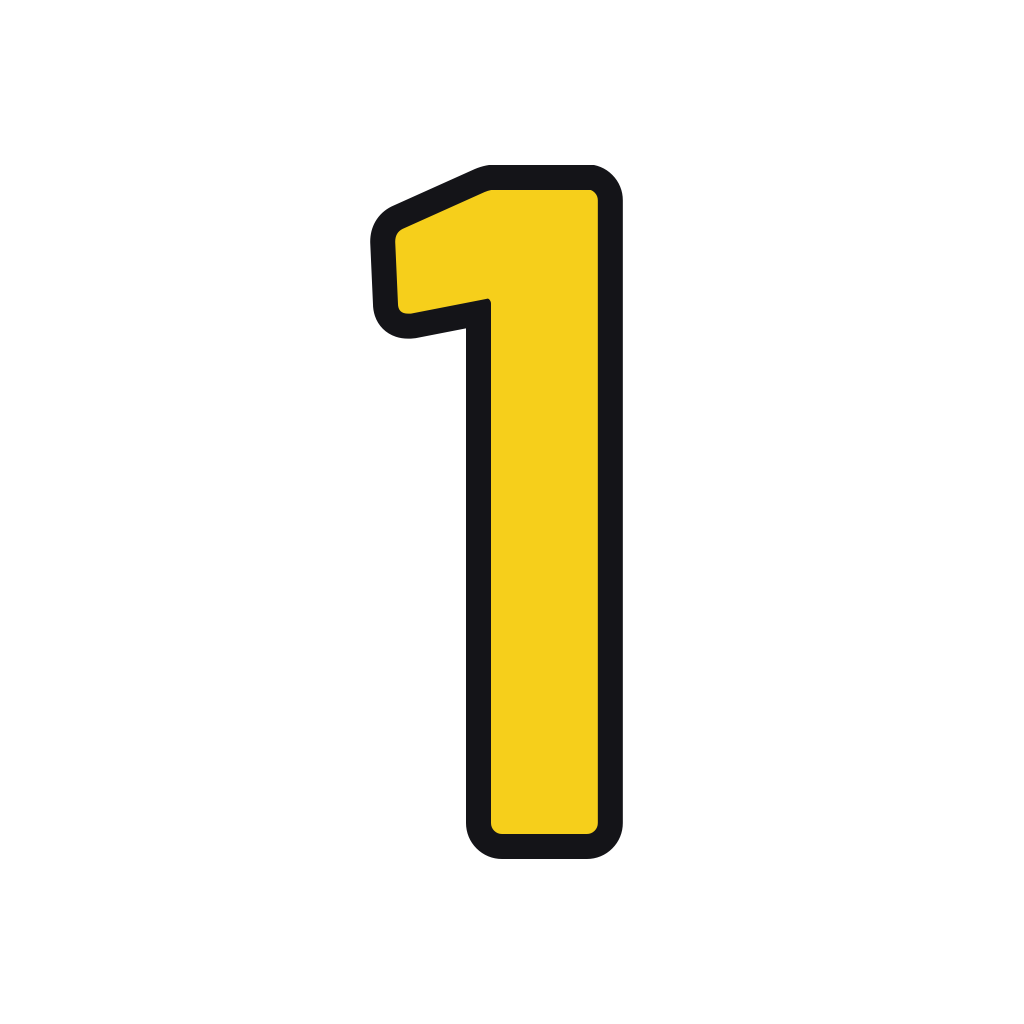
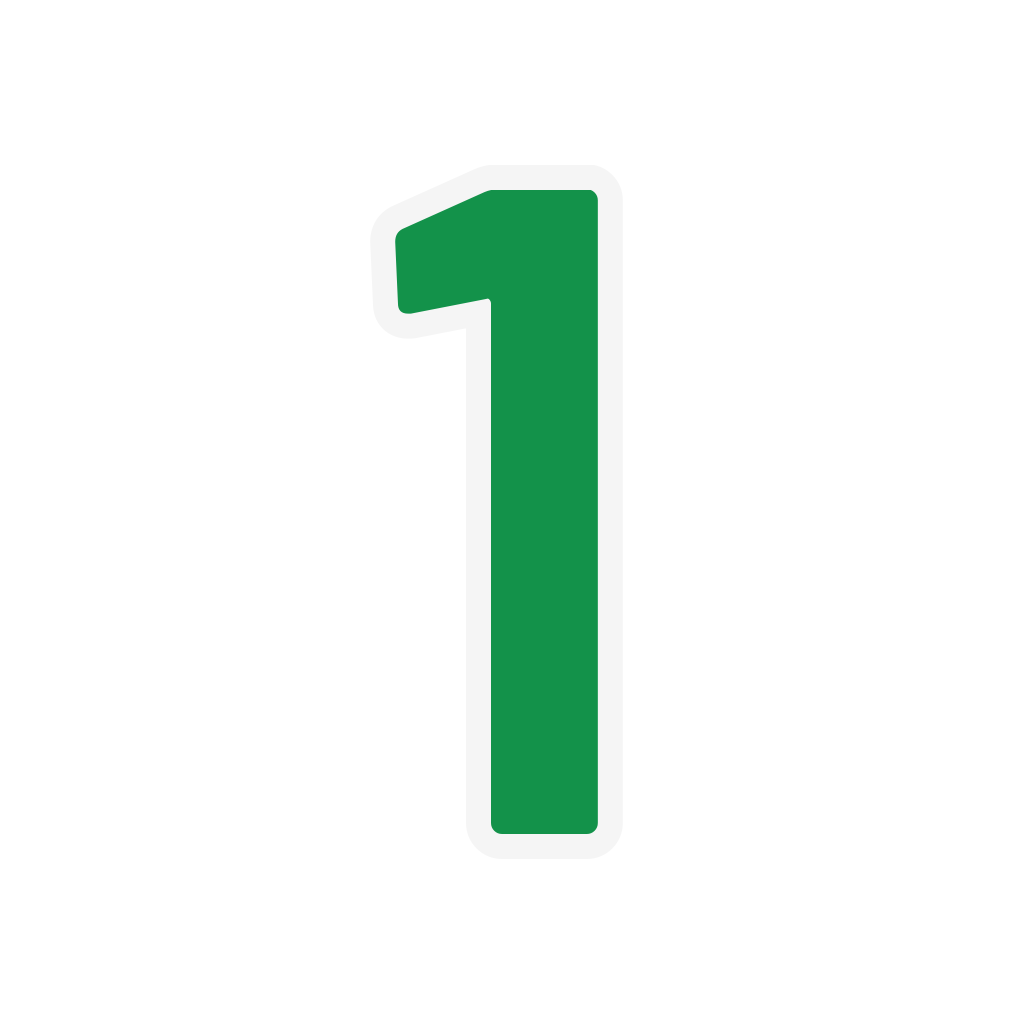
Times de 6 sem líbero: quem era líbero vira atleta de quadra
Decisão do Victor: 6 atletas de quadra por time (1 levantador, 2 ponteiros,
2 centrais, 1 oposto). O ex-líbero de cada time ficou com a função que
faltava; no Brasil, Takahashi virou ponteiro e Azevedo central. Sai o
uniforme de líbero (cores_libero) dos dados e das ferramentas, e o teste
dos dados passa a conferir as funções.

Claude-Session: https://claude.ai/code/session_0117xrKgvkuXnboQNucGGo48

Changed region(s): [[0.3438, 0.1562, 0.625, 0.8438]]

diff --git a/ferramentas/uniformes.py b/ferramentas/uniformes.py
@@ -1,6 +1,6 @@
 """Gera os números das camisas e uma prévia dos uniformes de cada time.
 
-Uso (na pasta do projeto):  python3 ferramentas/uniformes.py
+Uso (na pasta do projeto):  python3 ferramentas/uniformes.py [id_do_time ...]
 
 Saída em producao/uniformes/<time>/:
   numeros/<nn>.png  número do atleta (fundo transparente, 1024x1024), pra
@@ -13,6 +13,7 @@ Saída em producao/uniformes/<time>/:
 Cores e elenco vêm de dados/times.json e dados/elenco.json.
 """
 import json
+import sys
 from pathlib import Path
 
 from PIL import Image, ImageDraw, ImageFont
@@ -83,13 +84,13 @@ def previa(time, elenco, fonte):
     rotulo = fonte.font_variant(size=24)
     d.text((24, 16), f"{time['nome']}: uniformes (frente em cima, costas embaixo)", font=titulo, fill=(30, 30, 30, 255))
     for i, atleta in enumerate(elenco):
-        cores = time["cores_libero"] if atleta.get("libero") else time["cores"][:2]
+        cores = time["cores"][:2]
         principal, detalhe = cor(cores[0]), cor(cores[1])
         x = 40 + 55 + i * passo
         for linha, costas in enumerate((False, True)):
             y = 90 + linha * (a + 110)
             camisa(d, x, y, l, a, principal, detalhe, atleta["numero"], costas, fonte)
-        nome = atleta["nome"].split()[-1] + (" (líbero)" if atleta.get("libero") else "")
+        nome = atleta["nome"].split()[-1]
         d.text((x - 30, 90 + 2 * (a + 110) - 40), nome, font=rotulo, fill=(30, 30, 30, 255))
     return img
 
@@ -98,12 +99,15 @@ def main():
     times = json.loads((RAIZ / "dados" / "times.json").read_text(encoding="utf-8"))["times"]
     elencos = json.loads((RAIZ / "dados" / "elenco.json").read_text(encoding="utf-8"))["times"]
     fonte = ImageFont.truetype(str(FONTE), 40)
+    so = set(sys.argv[1:])
     for time in times:
+        if so and time["id"] not in so:
+            continue
         elenco = elencos.get(time["id"], [])
         pasta = SAIDA / time["id"]
         (pasta / "numeros").mkdir(parents=True, exist_ok=True)
         for atleta in elenco:
-            cores = time["cores_libero"] if atleta.get("libero") else time["cores"][:2]
+            cores = time["cores"][:2]
             img = numero_png(atleta["numero"], cor(cores[1]), cor(cores[0]))
             img.save(pasta / "numeros" / f"{atleta['numero']:02d}.png", optimize=True)
         previa(time, elenco, fonte).convert("RGB").save(pasta / "previa.png", optimize=True)

diff --git a/ferramentas/manifesto.py b/ferramentas/manifesto.py
@@ -51,7 +51,7 @@ def main():
             capturas = [v for v in VISTAS
                         if (RAIZ / "producao" / "capturas" / time["id"] / f"{base}_{v}.png").exists()]
             tamanho = f" ({vrm.stat().st_size / 1e6:.1f} MB)" if vrm.exists() else ""
-            nome = a["nome"] + (" (L)" if a.get("libero") else "")
+            nome = a["nome"]
             ficha_txt = f"[sim](fichas/{time['id']}/{base}.md)" if ficha.exists() else "não"
             linhas.append(
                 f"| {a['numero']} | {nome} | {ficha_txt} | {s.get('modelagem', 'pendente')} | "

diff --git a/producao/MANIFESTO.md b/producao/MANIFESTO.md
@@ -16,7 +16,7 @@ Projeto editável `.vroid`: fica fora do Git, no PC de casa, em `VoleiPersonagen
 | 11 | Kei Tsukishima | [sim](fichas/karasuno/11_tsukishima.md) | pendente | pendente | não | nenhuma | pendente | pendente |  |
 | 1 | Daichi Sawamura | [sim](fichas/karasuno/01_sawamura.md) | pendente | pendente | não | nenhuma | pendente | pendente |  |
 | 10 | Shoyo Hinata | [sim](fichas/karasuno/10_hinata.md) | pendente | pendente | não | nenhuma | pendente | pendente |  |
-| 4 | Yu Nishinoya (L) | [sim](fichas/karasuno/04_nishinoya.md) | pendente | pendente | não | nenhuma | pendente | pendente |  |
+| 4 | Yu Nishinoya | [sim](fichas/karasuno/04_nishinoya.md) | pendente | pendente | não | nenhuma | pendente | pendente |  |
 
 ## Aoba Johsai
 
@@ -27,7 +27,7 @@ Projeto editável `.vroid`: fica fora do Git, no PC de casa, em `VoleiPersonagen
 | 2 | Issei Matsukawa | [sim](fichas/aoba_johsai/02_matsukawa.md) | pendente | pendente | não | nenhuma | pendente | pendente |  |
 | 3 | Takahiro Hanamaki | [sim](fichas/aoba_johsai/03_hanamaki.md) | pendente | pendente | não | nenhuma | pendente | pendente |  |
 | 12 | Yutaro Kindaichi | [sim](fichas/aoba_johsai/12_kindaichi.md) | pendente | pendente | não | nenhuma | pendente | pendente |  |
-| 7 | Shinji Watari (L) | [sim](fichas/aoba_johsai/07_watari.md) | pendente | pendente | não | nenhuma | pendente | pendente |  |
+| 7 | Shinji Watari | [sim](fichas/aoba_johsai/07_watari.md) | pendente | pendente | não | nenhuma | pendente | pendente |  |
 
 ## Shiratorizawa
 
@@ -38,7 +38,7 @@ Projeto editável `.vroid`: fica fora do Git, no PC de casa, em `VoleiPersonagen
 | 5 | Satori Tendo | [sim](fichas/shiratorizawa/05_tendo.md) | pendente | pendente | não | nenhuma | pendente | pendente |  |
 | 4 | Reon Ohira | [sim](fichas/shiratorizawa/04_ohira.md) | pendente | pendente | não | nenhuma | pendente | pendente |  |
 | 8 | Tsutomu Goshiki | [sim](fichas/shiratorizawa/08_goshiki.md) | pendente | pendente | não | nenhuma | pendente | pendente |  |
-| 14 | Hayato Yamagata (L) | [sim](fichas/shiratorizawa/14_yamagata.md) | pendente | pendente | não | nenhuma | pendente | pendente |  |
+| 14 | Hayato Yamagata | [sim](fichas/shiratorizawa/14_yamagata.md) | pendente | pendente | não | nenhuma | pendente | pendente |  |
 
 ## Nekoma
 
@@ -49,7 +49,7 @@ Projeto editável `.vroid`: fica fora do Git, no PC de casa, em `VoleiPersonagen
 | 1 | Tetsuro Kuroo | [sim](fichas/nekoma/01_kuroo.md) | pendente | pendente | não | nenhuma | pendente | pendente |  |
 | 2 | Nobuyuki Kai | [sim](fichas/nekoma/02_kai.md) | pendente | pendente | não | nenhuma | pendente | pendente |  |
 | 11 | Lev Haiba | [sim](fichas/nekoma/11_lev.md) | pendente | pendente | não | nenhuma | pendente | pendente |  |
-| 3 | Morisuke Yaku (L) | [sim](fichas/nekoma/03_yaku.md) | pendente | pendente | não | nenhuma | pendente | pendente |  |
+| 3 | Morisuke Yaku | [sim](fichas/nekoma/03_yaku.md) | pendente | pendente | não | nenhuma | pendente | pendente |  |
 
 ## Fukurodani
 
@@ -60,7 +60,7 @@ Projeto editável `.vroid`: fica fora do Git, no PC de casa, em `VoleiPersonagen
 | 2 | Tatsuki Washio | [sim](fichas/fukurodani/02_washio.md) | pendente | pendente | não | nenhuma | pendente | pendente |  |
 | 7 | Akinori Konoha | [sim](fichas/fukurodani/07_konoha.md) | pendente | pendente | não | nenhuma | pendente | pendente |  |
 | 3 | Yamato Sarukui | [sim](fichas/fukurodani/03_sarukui.md) | pendente | pendente | não | nenhuma | pendente | pendente |  |
-| 11 | Haruki Komi (L) | [sim](fichas/fukurodani/11_komi.md) | pendente | pendente | não | nenhuma | pendente | pendente |  |
+| 11 | Haruki Komi | [sim](fichas/fukurodani/11_komi.md) | pendente | pendente | não | nenhuma | pendente | pendente |  |
 
 ## Inarizaki
 
@@ -71,7 +71,7 @@ Projeto editável `.vroid`: fica fora do Git, no PC de casa, em `VoleiPersonagen
 | 10 | Rintaro Suna | [sim](fichas/inarizaki/10_suna.md) | pendente | pendente | não | nenhuma | pendente | pendente |  |
 | 1 | Shinsuke Kita | [sim](fichas/inarizaki/01_kita.md) | pendente | pendente | não | nenhuma | pendente | pendente |  |
 | 11 | Osamu Miya | [sim](fichas/inarizaki/11_osamu.md) | pendente | pendente | não | nenhuma | pendente | pendente |  |
-| 9 | Michinari Akagi (L) | [sim](fichas/inarizaki/09_akagi.md) | pendente | pendente | não | nenhuma | pendente | pendente |  |
+| 9 | Michinari Akagi | [sim](fichas/inarizaki/09_akagi.md) | pendente | pendente | não | nenhuma | pendente | pendente |  |
 
 ## Brasil
 
@@ -82,4 +82,4 @@ Projeto editável `.vroid`: fica fora do Git, no PC de casa, em `VoleiPersonagen
 | 13 | Lucas Paim | [sim](fichas/brasil/13_paim.md) | pendente | pendente | não | nenhuma | pendente | pendente |  |
 | 4 | Rafael Azevedo | [sim](fichas/brasil/04_azevedo.md) | pendente | pendente | não | nenhuma | pendente | pendente |  |
 | 8 | Thiago Barreto | [sim](fichas/brasil/08_barreto.md) | pendente | pendente | não | nenhuma | pendente | pendente |  |
-| 1 | Enzo Takahashi (L) | [sim](fichas/brasil/01_takahashi.md) | pendente | pendente | não | nenhuma | pendente | pendente |  |
+| 1 | Enzo Takahashi | [sim](fichas/brasil/01_takahashi.md) | pendente | pendente | não | nenhuma | pendente | pendente |  |

diff --git a/personagens/ELENCO.md b/personagens/ELENCO.md
@@ -1,13 +1,15 @@
 # Elenco: os 42 atletas
 
-Os dados ficam em `dados/elenco.json` (nome, número, posição, líbero e nome do arquivo).
-Cada time tem **5 jogadores de quadra + 1 líbero**, como combinado no guia do VRoid.
+Os dados ficam em `dados/elenco.json` (nome, número, posição e nome do arquivo).
+Cada time tem **6 jogadores de quadra, sem líbero** (decisão do Victor em 09/11/2026): 1 levantador,
+2 ponteiros, 2 centrais e 1 oposto. Quem era líbero virou o que faltava no time (oposto ou central).
+As fichas dos ex-líberos dos times de Haikyuu ainda dizem "líbero"; esses times vão ser trocados por originais.
 A ordem da lista é a posição inicial no rodízio (1 a 6).
 
 ## Como o elenco foi escolhido
 
 - Base: os titulares de cada time no anime/mangá, com prioridade pra quem é mais reconhecível.
-- Como são só 6 vagas com líbero, um titular de quadra ficou de fora em alguns times (tabela abaixo).
+- Como são só 6 vagas, um titular de quadra ficou de fora em alguns times (tabela abaixo).
   Trocar é só editar `dados/elenco.json`.
 - O time **Brasil** é inventado: 6 atletas originais, sem base em pessoas reais.
 
@@ -37,15 +39,9 @@ Cada atleta tem uma ficha visual em `producao/fichas/`. As alturas dos personage
 | 7 | Caio Ventura | Levantador | 1,86 m, pele morena, cabelo preto curto e cacheado com risca lateral |
 | 10 | Davi Rocha | Ponteiro (ás) | 1,92 m, pele negra, black power médio com faixa na testa |
 | 13 | Lucas Paim | Central | 2,04 m, pele parda, tranças nagô presas atrás |
-| 4 | Rafael Azevedo | Ponteiro (capitão) | 1,94 m, pele morena clara, cabelo castanho ondulado na altura do queixo |
+| 4 | Rafael Azevedo | Central (capitão) | 1,94 m, pele morena clara, cabelo castanho ondulado na altura do queixo |
 | 8 | Thiago Barreto | Oposto | 2,01 m, pele clara, loiro descolorido com laterais raspadas |
-| 1 | Enzo Takahashi | Líbero | 1,76 m, nipo-brasileiro, cabelo preto liso com franja comprida |
-
-## Líbero
-
-Pela regra, o líbero usa camisa de cor diferente. No jogo ele usa `cores_libero` de
-`dados/times.json`: a cor principal e a de detalhe do time invertidas (Karasuno: camisa laranja, detalhe preto).
-Com o uniforme reserva, o líbero usa a cor de detalhe com a 3ª cor.
+| 1 | Enzo Takahashi | Ponteiro | 1,76 m, nipo-brasileiro, cabelo preto liso com franja comprida |
 
 ## Direitos
 

diff --git a/producao/fichas/brasil/01_takahashi.md b/producao/fichas/brasil/01_takahashi.md
@@ -1,15 +1,15 @@
 # Ficha visual: Enzo Takahashi (Brasil, nº 1)
 
-Posição: líbero (líbero, uniforme de cor diferente).
+Posição: ponteiro (o jogo não tem líbero; antes era o líbero do time).
 
 Referências (abrir do lado ao modelar, não copiar imagens pro repositório):
 Personagem original do jogo: não tem referência externa. Manter o visual desta ficha.
 
 ## Prioridade de reconhecimento (câmera alta, de longe)
 
-1. **Franja preta comprida + camisa de líbero.**
+1. **Franja preta comprida + o mais baixo do time.**
 2. Altura: 1,76 m.
-3. Camisa `#13924A` com detalhe `#F6CF1B`, número 1.
+3. Camisa `#F6CF1B` com detalhe `#13924A`, número 1.
 
 ## Corpo e rosto
 
@@ -32,9 +32,9 @@ Personagem original do jogo: não tem referência externa. Manter o visual desta
 
 | Peça | Cor |
 | --- | --- |
-| Camisa | `#13924A`, detalhe (gola, mangas, barra) `#F6CF1B` |
-| Número | 1 em `#F6CF1B`, frente e costas: `producao/uniformes/brasil/numeros/01.png` |
-| Shorts | `#13924A` com faixa lateral `#F6CF1B` |
+| Camisa | `#F6CF1B`, detalhe (gola, mangas, barra) `#13924A` |
+| Número | 1 em `#13924A`, frente e costas: `producao/uniformes/brasil/numeros/01.png` |
+| Shorts | `#F6CF1B` com faixa lateral `#13924A` |
 | Joelheiras, meias e tênis | Joelheira preta, meia branca curta, tênis branco |
 
 Prévia do time: `producao/uniformes/brasil/previa.png`.

diff --git a/README.md b/README.md
@@ -2,7 +2,7 @@
 
 Vôlei de quadra 6 contra 6 em 3D, estilo anime cel-shaded, para 2 jogadores (no mesmo PC ou online). Feito em Godot 4.
 
-Por enquanto o projeto tem: menu principal, seleção de times e estádio, a partida com 3 toques, bloqueio, rodízio, tela dividida e visual anime, pausa e tela de fim de jogo. Os atletas ainda são cápsulas no lugar dos personagens; o líbero de cada time já aparece com a cor dele. Quando o `.vrm` de um atleta existir em `personagens/`, o jogo usa ele no lugar da cápsula (veja `producao/LEIA-ME.md`), já animado: corre, para e faz cada lance (veja `animacoes/LEIA-ME.md`).
+Por enquanto o projeto tem: menu principal, seleção de times e estádio, a partida com 3 toques, bloqueio, rodízio, tela dividida e visual anime, pausa e tela de fim de jogo. Os atletas ainda são cápsulas no lugar dos personagens (6 por time, sem líbero). Quando o `.vrm` de um atleta existir em `personagens/`, o jogo usa ele no lugar da cápsula (veja `producao/LEIA-ME.md`), já animado: corre, para e faz cada lance (veja `animacoes/LEIA-ME.md`).
 
 ## Como abrir
 

diff --git a/producao/fichas/brasil/04_azevedo.md b/producao/fichas/brasil/04_azevedo.md
@@ -1,6 +1,6 @@
 # Ficha visual: Rafael Azevedo (Brasil, nº 4)
 
-Posição: ponteiro.
+Posição: central.
 
 Referências (abrir do lado ao modelar, não copiar imagens pro repositório):
 Personagem original do jogo: não tem referência externa. Manter o visual desta ficha.
